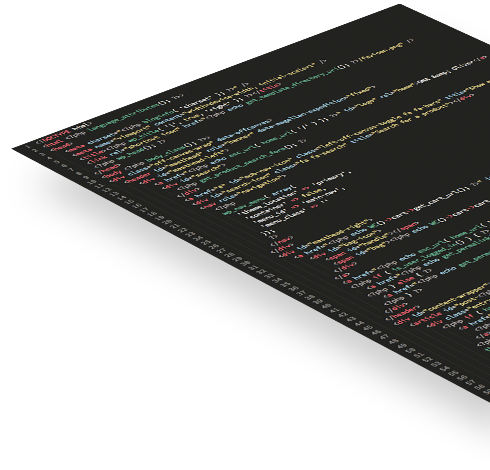
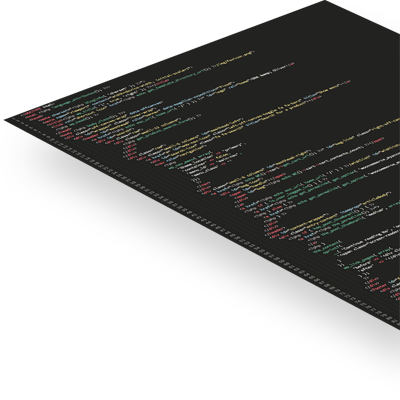
Reduce size of website layers and switch to background images

diff --git a/assets/style.css b/assets/style.css
@@ -1,1 +1,1 @@
-html{font-family:sans-serif;-ms-text-size-adjust:100%;-webkit-text-size-adjust:100%}body{margin:0}article,aside,details,figcaption,figure,footer,header,hgroup,main,menu,nav,section,summary{display:block}audio,canvas,progress,video{display:inline-block;vertical-align:baseline}audio:not([controls]){display:none;height:0}[hidden],template{display:none}a{background-color:transparent}a:active,a:hover{outline:0}abbr[title]{border-bottom:1px dotted}b,strong{font-weight:bold}dfn{font-style:italic}h1{font-size:2em;margin:0.67em 0}mark{background:#ff0;color:#000}small{font-size:80%}sub,sup{font-size:75%;line-height:0;position:relative;vertical-align:baseline}sup{top:-0.5em}sub{bottom:-0.25em}img{border:0}svg:not(:root){overflow:hidden}figure{margin:1em 40px}hr{box-sizing:content-box;height:0}pre{overflow:auto}code,kbd,pre,samp{font-family:monospace, monospace;font-size:1em}button,input,optgroup,select,textarea{color:inherit;font:inherit;margin:0}button{overflow:visible}button,select{text-transform:none}button,html input[type="button"],input[type="reset"],input[type="submit"]{-webkit-appearance:button;cursor:pointer}button[disabled],html input[disabled]{cursor:default}button::-moz-focus-inner,input::-moz-focus-inner{border:0;padding:0}input{line-height:normal}input[type="checkbox"],input[type="radio"]{box-sizing:border-box;padding:0}input[type="number"]::-webkit-inner-spin-button,input[type="number"]::-webkit-outer-spin-button{height:auto}input[type="search"]{-webkit-appearance:textfield;box-sizing:content-box}input[type="search"]::-webkit-search-cancel-button,input[type="search"]::-webkit-search-decoration{-webkit-appearance:none}fieldset{border:1px solid #c0c0c0;margin:0 2px;padding:0.35em 0.625em 0.75em}legend{border:0;padding:0}textarea{overflow:auto}optgroup{font-weight:bold}table{border-collapse:collapse;border-spacing:0}td,th{padding:0}*,*:before,*:after{box-sizing:border-box}:focus{box-shadow:none;outline:none}::-moz-selection{background-color:#fc3;color:#222}::selection{background-color:#fc3;color:#222}body{background-color:#c9c8c5;font-family:'Open Sans', sans-serif;font-size:0.875rem;line-height:1.642;color:#555}p{padding:0 0 1em;margin:0}a{color:#fc3;text-decoration:none}a:hover{color:#000}ul{list-style:none;margin:0;padding:0}h1,h2,h3,h4,h5,h6{font-family:'Montserrat', sans-serif;color:#222;font-weight:bold;margin:0 0 0.5em}h1{position:relative;font-size:2.25rem;line-height:1.4;letter-spacing:-2px;padding-bottom:0.625em;margin-bottom:0.625em}h1:after{max-width:3em;height:5px}h2{position:relative;font-size:2rem;line-height:1.25;text-transform:capitalize;padding-bottom:0.625em;margin-bottom:0.75em}h1:after,h2:after{content:'';width:100%;max-width:2em;height:3px;position:absolute;left:0;bottom:0;background-color:#fc3}.bubble{display:inline-block;position:relative;background-color:#fc3;font-size:1rem;line-height:1.375;font-weight:bold;text-transform:uppercase;color:#222;padding:0.5em 0.75em;margin-bottom:1rem}.bubble:after{content:'';width:0;height:0;position:absolute;right:0;bottom:-10px;border-top:10px solid #fc3;border-left:10px solid transparent}h3{font-size:1rem}@media (min-width: 22.5rem){h1{font-size:2.5rem}}@media (min-width: 40rem){h1{font-size:2.75rem}h2{font-size:2.125rem}.bubble{font-size:1.125rem;margin-bottom:1.25rem}}@media (min-width: 48rem){body{font-size:0.9375rem;line-height:1.666}h1{font-size:3rem}h2{font-size:2.25rem}}@media (min-width: 64rem){body{font-size:1rem;line-height:1.625}h1{font-size:4rem;padding-bottom:0.5em}h2{font-size:2.5rem}h3{font-size:1.125rem}.bubble{font-size:1.25rem}}@-webkit-keyframes fadeIn{0%{opacity:0}100%{opacity:1}}@keyframes fadeIn{0%{opacity:0}100%{opacity:1}}@-webkit-keyframes fadeInUp{0%{opacity:0;-webkit-transform:translateY(2rem);transform:translateY(2rem)}100%{opacity:1;-webkit-transform:none;transform:none}}@keyframes fadeInUp{0%{opacity:0;-webkit-transform:translateY(2rem);transform:translateY(2rem)}100%{opacity:1;-webkit-transform:none;transform:none}}@-webkit-keyframes fadeInLeft{0%{opacity:0;-webkit-transform:translateX(-3rem);transform:translateX(-3rem)}100%{opacity:1;-webkit-transform:none;transform:none}}@keyframes fadeInLeft{0%{opacity:0;-webkit-transform:translateX(-3rem);transform:translateX(-3rem)}100%{opacity:1;-webkit-transform:none;transform:none}}@-webkit-keyframes fadeInRight{0%{opacity:0;-webkit-transform:translateX(3rem);transform:translateX(3rem)}100%{opacity:1;-webkit-transform:none;transform:none}}@keyframes fadeInRight{0%{opacity:0;-webkit-transform:translateX(3rem);transform:translateX(3rem)}100%{opacity:1;-webkit-transform:none;transform:none}}@-webkit-keyframes zoomIn{0%{opacity:0;-webkit-transform:scale3d(0.5, 0.5, 0.5);transform:scale3d(0.5, 0.5, 0.5)}50%{opacity:1}}@keyframes zoomIn{0%{opacity:0;-webkit-transform:scale3d(0.5, 0.5, 0.5);transform:scale3d(0.5, 0.5, 0.5)}50%{opacity:1}}.js .animated,.js section header{visibility:hidden}.js .animated.revealed,.js section header.revealed{visibility:visible}.animated.revealed,section header.revealed{-webkit-animation:fadeIn 0.8s;animation:fadeIn 0.8s}#page-header{position:fixed;top:0;left:0;right:0;z-index:2}#page-header .inner-container{border-bottom:1px solid #f2f2f2;background-color:#fff}#page-header .inner-container:before,#page-header .inner-container:after{content:'';display:table}#page-header .inner-container:after{clear:both}#page-header #logo{width:75%;float:left;font-family:'Montserrat', sans-serif;color:#222;font-size:1.25rem;line-height:1;padding:0}#page-header #logo a{display:inline-block;color:#000;padding:1rem 1rem}#page-header #logo a:hover{color:#fc3}main{overflow:hidden;z-index:1}section{background-color:#fff;padding:2rem 1rem}section:before,section:after{content:'';display:table}section:after{clear:both}section#home{padding:0}section p:last-child{padding-bottom:0}#page-footer{background-color:#333;font-size:0.875rem;padding:1rem 1rem;overflow:hidden}#page-footer p{line-height:1.5rem;color:#cfcecb;padding:0.5rem 0}#page-footer p.copyright{width:80%;float:left}#page-footer p.github{width:20%;float:right;text-align:right}#page-footer p.github span{display:none;vertical-align:top}#page-footer a{display:inline-block;line-height:1.5rem;color:#cfcecb}#page-footer a svg{width:1.5rem;height:1.5rem;fill:currentColor;vertical-align:top;margin-right:0.5rem}#page-footer a:hover{color:#fc3}#page-footer a:hover svg{fill:#fc3}@media (min-width: 22.5rem){#page-header #logo a,#page-footer{padding:1rem 1.25rem}section{padding:2rem 1.25rem}}@media (min-width: 40rem){#page-header #logo a,#page-footer{padding:1.25rem 1.5rem}#page-footer p.copyright{width:50%}#page-footer p.github{width:50%}#page-footer p.github span{display:inline-block}section{padding:2rem 1.5rem}}@media (min-width: 48rem){#page-header .inner-container,#page-footer{padding:1.5rem 1.75rem}#page-header #logo a{padding:0}#page-header #logo{width:25%;line-height:2.5rem}section{padding:2rem 1.75rem}}@media (min-width: 64rem){main,#page-footer,.inner-container{width:100%;max-width:64rem;margin:0 auto}#page-header .inner-container,#page-footer{padding:1.5rem 3rem}section{padding:3rem}}#menu-icon{box-sizing:content-box;width:24px;height:20px;float:right;position:relative;border:solid #fff;border-width:1rem 1rem;-webkit-transform:rotate(0deg);transform:rotate(0deg);transition:all 0.3s ease-in-out;cursor:pointer}#menu-icon:before,#menu-icon:after,#menu-icon span:before,#menu-icon span:after{content:'';display:block;width:100%;height:4px;position:absolute;left:0;background:#000;-webkit-transform:rotate(0deg);transform:rotate(0deg);transition:all 0.3s ease-in-out}#menu-icon:before{top:0}#menu-icon:after{top:16px}#menu-icon span:before,#menu-icon span:after{top:8px}#menu-icon.open:before,#menu-icon.open:after{width:0%;top:8px;left:50%}#menu-icon.open span:before{-webkit-transform:rotate(45deg);transform:rotate(45deg)}#menu-icon.open span:after{-webkit-transform:rotate(-45deg);transform:rotate(-45deg)}#main-menu{display:none;clear:both;font-family:'Montserrat', sans-serif;color:#222}#main-menu ul{padding:1rem 0 2rem;visibility:hidden}#main-menu a{display:block;font-size:1.25rem;letter-spacing:1px;color:#000;line-height:2.2em;text-align:center;text-transform:uppercase}#main-menu a:hover{color:#fc3}#main-menu hr{display:none}#main-menu.open ul{visibility:visible}@media (min-width: 22.5rem){#menu-icon{border-width:1rem 1.25rem}}@media (min-width: 40rem){#menu-icon{border-width:1.25rem 1.5rem}}@media (min-width: 48rem){#menu-icon{display:none}#main-menu{display:block;clear:none;max-width:75%;float:right;position:relative;background:none}#main-menu ul{position:relative;padding:0;visibility:visible}#main-menu li{display:inline-block;margin-left:2em}#main-menu li:first-child{margin-left:0}#main-menu a{font-size:0.875rem;line-height:2.5rem;text-align:left}#main-menu hr{display:block;height:3px;position:absolute;left:0;bottom:0;border:none;background-color:#fc3;padding:0;margin:0;transition:left 0.5s, width 0.5s}}#home{background-color:#f2f2f2;margin-top:3.25rem;overflow:hidden}.intro{width:100%;padding:1.75rem 1rem 2rem}.intro p{padding:0}.layers{display:none}#about .photo{display:block;width:100%;max-width:335px;height:auto;margin:0 auto 1rem}#about .photo.revealed,#about .text.revealed{-webkit-animation:fadeInUp 0.5s;animation:fadeInUp 0.5s}#skills{background-color:#f2f2f2}.skill{text-align:center;padding-top:0.75rem}.skill:nth-of-type(1n+2){margin-top:1.25rem}.skill.revealed{-webkit-animation:fadeInUp 0.5s;animation:fadeInUp 0.5s}.skill span{display:inline-block;border-radius:50%;background-color:#fc3;padding:1rem;margin-bottom:0.5rem}.skill span svg{display:block;width:3rem;height:3rem;fill:#333;overflow:visible}.skill span.responsive svg{margin:0 1px 0 -1px}.skill span.performance svg{margin:-2px 0 2px}.skill p{padding-bottom:0}#work{padding-bottom:0}.project{width:100%;max-width:335px;min-height:200px;position:relative;margin:0 auto}.project.revealed{-webkit-animation:zoomIn 0.5s;animation:zoomIn 0.5s}.project:nth-of-type(1n+2){margin-top:1rem}.project img{display:block;width:100%;height:auto}.project h3{position:relative;background-color:#333;font-weight:normal;line-height:2.875rem;color:#f2f2f2;padding:0 1rem 0.125em;margin:0}.project h3 span{width:3rem;height:3rem;position:absolute;top:0;right:0;padding:0.5rem;cursor:pointer}.project h3 span:hover svg{fill:#fc3}.project h3 svg{width:100%;height:100%;fill:currentColor}.project h3 svg.small{-webkit-transform:scale(0.8, 0.8);transform:scale(0.8, 0.8)}.project .details{display:none;height:calc(100% - 3rem);position:absolute;right:0;bottom:3rem;left:0;background-color:rgba(51,51,51,0.85);color:#fff;fill:currentColor;padding:1rem}.project .details li{margin-top:0.625rem}.project .details li svg{width:1.5rem;height:1.5rem;vertical-align:top;margin-right:0.5rem}.project .details li a{display:inline-block;line-height:1.5rem;color:#fff;vertical-align:top}.project .details li a:hover{color:#fc3}.project .details li a:hover svg{fill:#fc3}.project .details p,.project .details ul{display:none}.project .details.open p,.project .details.open ul{display:block}.project.va{background-color:#d9dadb}.project.oo{background-color:#d1eb83}.project.sd{background-color:#a9ddee}.project.je{background-color:#339c49}@media (min-width: 22.5rem){.intro{padding:1.75rem 1.25rem 2rem}.project:nth-of-type(1n+2){margin-top:1.25rem}}@media (min-width: 40rem){.intro{width:60%;float:left;padding:1.75rem 0 2rem 1.5rem}@-webkit-keyframes layers{0%{right:-100%}100%{right:0}}@keyframes layers{0%{right:-100%}100%{right:0}}.layers{display:block;width:40%;max-width:490px;float:right;position:relative}.layers:before{content:'';display:block;height:0;padding-bottom:110%}.layers img{width:100%;height:auto;position:absolute;right:-100%;-webkit-animation:layers 0.3s ease-out 0s 1 forwards;animation:layers 0.3s ease-out 0s 1 forwards;-webkit-transform:translate3d(0, 0, 0)}.layers .website{top:20px;-webkit-animation-delay:0.6s;animation-delay:0.6s}.layers .code{top:80px;-webkit-animation-delay:0.3s;animation-delay:0.3s}.layers .wireframe{top:140px}.project{width:calc(50% - 0.75rem);float:left}.project:nth-of-type(1n+2){margin-top:0}.project:nth-of-type(1n+3){margin-top:1.5rem}.project:nth-of-type(2n+1){clear:both;margin-right:1.5rem}}@media (min-width: 48rem){.intro{width:60%;float:left;padding:1.75rem 0 2rem 1.75rem}.intro p{padding-right:2rem}#home{margin-top:5.5rem}.layers{width:40%;max-width:490px}.layers:before{padding-bottom:110%}.layers .website{top:20px}.layers .code{top:100px}.layers .wireframe{top:180px}#about .photo{width:calc(50% - 0.875rem);max-width:448px;height:auto;float:left;margin-bottom:0}#about .photo.revealed{-webkit-animation:fadeInLeft 0.5s;animation:fadeInLeft 0.5s}#about .text{width:calc(50% + 0.875rem);float:left;padding-left:1.75rem}#about .text.revealed{-webkit-animation:fadeInRight 0.5s;animation:fadeInRight 0.5s}.skill{float:left;width:calc(50% - 0.875rem);padding-top:1rem}.skill:nth-of-type(1n+2){margin-top:0}.skill:nth-of-type(1n+3){margin-top:1.25rem}.skill:nth-of-type(2n+1){clear:both;margin-right:1.75rem}.project{width:calc(50% - 0.875rem);max-width:448px}.project:nth-of-type(2n+1){margin-right:1.75rem}.project:nth-of-type(1n+3){margin-top:1.75rem}}@media (min-width: 64rem){.intro{padding:2.5rem 0 3rem 3rem}.intro p{max-width:36rem}.layers .code{top:120px}.layers .wireframe{top:220px}#about .photo{max-width:448px}#about .text{width:calc(100% - 448px);padding-left:2rem}.skill{width:calc(50% - 1rem)}.skill:nth-of-type(2n+1){margin-right:2rem}.project{width:calc(50% - 1rem)}.project:nth-of-type(2n+1){margin-right:2rem}.project:nth-of-type(1n+3){margin-top:2rem}.project h3{padding:0 1.5rem 0.125rem}.project .details{padding:1rem 1.5rem}}form input,form textarea{display:block;width:100%;box-shadow:none;border:none;border-radius:0;background-color:#f2f2f2;color:#222;padding:0.75em}form input:focus,form textarea:focus{box-shadow:0 0 0 2px #eee inset;background-color:#fff}form input{max-width:24em}form button{border:none;background-color:#333;font-family:'Montserrat', sans-serif;color:#222;color:#fff;font-size:0.875rem;font-weight:bold;line-height:1.5;letter-spacing:1px;text-transform:uppercase;padding:0.714em 1em;transition:all 0.3s}form button:hover{background-color:#fc3;color:#222}@media (min-width: 40rem){form p{padding-bottom:1.5rem}form input{max-width:22em}form textarea{max-width:44em}form button{padding:0.785em 1em}}
+html{font-family:sans-serif;-ms-text-size-adjust:100%;-webkit-text-size-adjust:100%}body{margin:0}article,aside,details,figcaption,figure,footer,header,hgroup,main,menu,nav,section,summary{display:block}audio,canvas,progress,video{display:inline-block;vertical-align:baseline}audio:not([controls]){display:none;height:0}[hidden],template{display:none}a{background-color:transparent}a:active,a:hover{outline:0}abbr[title]{border-bottom:1px dotted}b,strong{font-weight:bold}dfn{font-style:italic}h1{font-size:2em;margin:0.67em 0}mark{background:#ff0;color:#000}small{font-size:80%}sub,sup{font-size:75%;line-height:0;position:relative;vertical-align:baseline}sup{top:-0.5em}sub{bottom:-0.25em}img{border:0}svg:not(:root){overflow:hidden}figure{margin:1em 40px}hr{box-sizing:content-box;height:0}pre{overflow:auto}code,kbd,pre,samp{font-family:monospace, monospace;font-size:1em}button,input,optgroup,select,textarea{color:inherit;font:inherit;margin:0}button{overflow:visible}button,select{text-transform:none}button,html input[type="button"],input[type="reset"],input[type="submit"]{-webkit-appearance:button;cursor:pointer}button[disabled],html input[disabled]{cursor:default}button::-moz-focus-inner,input::-moz-focus-inner{border:0;padding:0}input{line-height:normal}input[type="checkbox"],input[type="radio"]{box-sizing:border-box;padding:0}input[type="number"]::-webkit-inner-spin-button,input[type="number"]::-webkit-outer-spin-button{height:auto}input[type="search"]{-webkit-appearance:textfield;box-sizing:content-box}input[type="search"]::-webkit-search-cancel-button,input[type="search"]::-webkit-search-decoration{-webkit-appearance:none}fieldset{border:1px solid #c0c0c0;margin:0 2px;padding:0.35em 0.625em 0.75em}legend{border:0;padding:0}textarea{overflow:auto}optgroup{font-weight:bold}table{border-collapse:collapse;border-spacing:0}td,th{padding:0}*,*:before,*:after{box-sizing:border-box}:focus{box-shadow:none;outline:none}::-moz-selection{background-color:#fc3;color:#222}::selection{background-color:#fc3;color:#222}body{background-color:#c9c8c5;font-family:'Open Sans', sans-serif;font-size:0.875rem;line-height:1.642;color:#555}p{padding:0 0 1em;margin:0}a{color:#fc3;text-decoration:none}a:hover{color:#000}ul{list-style:none;margin:0;padding:0}h1,h2,h3,h4,h5,h6{font-family:'Montserrat', sans-serif;color:#222;font-weight:bold;margin:0 0 0.5em}h1{position:relative;font-size:2.25rem;line-height:1.4;letter-spacing:-2px;padding-bottom:0.625em;margin-bottom:0.625em}h1:after{max-width:3em;height:5px}h2{position:relative;font-size:2rem;line-height:1.25;text-transform:capitalize;padding-bottom:0.625em;margin-bottom:0.75em}h1:after,h2:after{content:'';width:100%;max-width:2em;height:3px;position:absolute;left:0;bottom:0;background-color:#fc3}.bubble{display:inline-block;position:relative;background-color:#fc3;font-size:1rem;line-height:1.375;font-weight:bold;text-transform:uppercase;color:#222;padding:0.5em 0.75em;margin-bottom:1rem}.bubble:after{content:'';width:0;height:0;position:absolute;right:0;bottom:-10px;border-top:10px solid #fc3;border-left:10px solid transparent}h3{font-size:1rem}@media (min-width: 22.5rem){h1{font-size:2.5rem}}@media (min-width: 40rem){h1{font-size:2.75rem}h2{font-size:2.125rem}.bubble{font-size:1.125rem;margin-bottom:1.25rem}}@media (min-width: 48rem){body{font-size:0.9375rem;line-height:1.666}h1{font-size:3rem}h2{font-size:2.25rem}}@media (min-width: 64rem){body{font-size:1rem;line-height:1.625}h1{font-size:4rem;padding-bottom:0.5em}h2{font-size:2.5rem}h3{font-size:1.125rem}.bubble{font-size:1.25rem}}@-webkit-keyframes fadeIn{0%{opacity:0}100%{opacity:1}}@keyframes fadeIn{0%{opacity:0}100%{opacity:1}}@-webkit-keyframes fadeInUp{0%{opacity:0;-webkit-transform:translateY(2rem);transform:translateY(2rem)}100%{opacity:1;-webkit-transform:none;transform:none}}@keyframes fadeInUp{0%{opacity:0;-webkit-transform:translateY(2rem);transform:translateY(2rem)}100%{opacity:1;-webkit-transform:none;transform:none}}@-webkit-keyframes fadeInLeft{0%{opacity:0;-webkit-transform:translateX(-3rem);transform:translateX(-3rem)}100%{opacity:1;-webkit-transform:none;transform:none}}@keyframes fadeInLeft{0%{opacity:0;-webkit-transform:translateX(-3rem);transform:translateX(-3rem)}100%{opacity:1;-webkit-transform:none;transform:none}}@-webkit-keyframes fadeInRight{0%{opacity:0;-webkit-transform:translateX(3rem);transform:translateX(3rem)}100%{opacity:1;-webkit-transform:none;transform:none}}@keyframes fadeInRight{0%{opacity:0;-webkit-transform:translateX(3rem);transform:translateX(3rem)}100%{opacity:1;-webkit-transform:none;transform:none}}@-webkit-keyframes zoomIn{0%{opacity:0;-webkit-transform:scale3d(0.5, 0.5, 0.5);transform:scale3d(0.5, 0.5, 0.5)}50%{opacity:1}}@keyframes zoomIn{0%{opacity:0;-webkit-transform:scale3d(0.5, 0.5, 0.5);transform:scale3d(0.5, 0.5, 0.5)}50%{opacity:1}}.js .animated,.js section header{visibility:hidden}.js .animated.revealed,.js section header.revealed{visibility:visible}.animated.revealed,section header.revealed{-webkit-animation:fadeIn 0.8s;animation:fadeIn 0.8s}#page-header{position:fixed;top:0;left:0;right:0;z-index:2}#page-header .inner-container{border-bottom:1px solid #f2f2f2;background-color:#fff}#page-header .inner-container:before,#page-header .inner-container:after{content:'';display:table}#page-header .inner-container:after{clear:both}#page-header #logo{width:75%;float:left;font-family:'Montserrat', sans-serif;color:#222;font-size:1.25rem;line-height:1;padding:0}#page-header #logo a{display:inline-block;color:#000;padding:1rem 1rem}#page-header #logo a:hover{color:#fc3}main{overflow:hidden;z-index:1}section{background-color:#fff;padding:2rem 1rem}section:before,section:after{content:'';display:table}section:after{clear:both}section#home{padding:0}section p:last-child{padding-bottom:0}#page-footer{background-color:#333;font-size:0.875rem;padding:1rem 1rem;overflow:hidden}#page-footer p{line-height:1.5rem;color:#cfcecb;padding:0.5rem 0}#page-footer p.copyright{width:80%;float:left}#page-footer p.github{width:20%;float:right;text-align:right}#page-footer p.github span{display:none;vertical-align:top}#page-footer a{display:inline-block;line-height:1.5rem;color:#cfcecb}#page-footer a svg{width:1.5rem;height:1.5rem;fill:currentColor;vertical-align:top;margin-right:0.5rem}#page-footer a:hover{color:#fc3}#page-footer a:hover svg{fill:#fc3}@media (min-width: 22.5rem){#page-header #logo a,#page-footer{padding:1rem 1.25rem}section{padding:2rem 1.25rem}}@media (min-width: 40rem){#page-header #logo a,#page-footer{padding:1.25rem 1.5rem}#page-footer p.copyright{width:50%}#page-footer p.github{width:50%}#page-footer p.github span{display:inline-block}section{padding:2rem 1.5rem}}@media (min-width: 48rem){#page-header .inner-container,#page-footer{padding:1.5rem 1.75rem}#page-header #logo a{padding:0}#page-header #logo{width:25%;line-height:2.5rem}section{padding:2rem 1.75rem}}@media (min-width: 64rem){main,#page-footer,.inner-container{width:100%;max-width:64rem;margin:0 auto}#page-header .inner-container,#page-footer{padding:1.5rem 3rem}section{padding:3rem}}#menu-icon{box-sizing:content-box;width:24px;height:20px;float:right;position:relative;border:solid #fff;border-width:1rem 1rem;-webkit-transform:rotate(0deg);transform:rotate(0deg);transition:all 0.3s ease-in-out;cursor:pointer}#menu-icon:before,#menu-icon:after,#menu-icon span:before,#menu-icon span:after{content:'';display:block;width:100%;height:4px;position:absolute;left:0;background:#000;-webkit-transform:rotate(0deg);transform:rotate(0deg);transition:all 0.3s ease-in-out}#menu-icon:before{top:0}#menu-icon:after{top:16px}#menu-icon span:before,#menu-icon span:after{top:8px}#menu-icon.open:before,#menu-icon.open:after{width:0%;top:8px;left:50%}#menu-icon.open span:before{-webkit-transform:rotate(45deg);transform:rotate(45deg)}#menu-icon.open span:after{-webkit-transform:rotate(-45deg);transform:rotate(-45deg)}#main-menu{display:none;clear:both;font-family:'Montserrat', sans-serif;color:#222}#main-menu ul{padding:1rem 0 2rem;visibility:hidden}#main-menu a{display:block;font-size:1.25rem;letter-spacing:1px;color:#000;line-height:2.2em;text-align:center;text-transform:uppercase}#main-menu a:hover{color:#fc3}#main-menu hr{display:none}#main-menu.open ul{visibility:visible}@media (min-width: 22.5rem){#menu-icon{border-width:1rem 1.25rem}}@media (min-width: 40rem){#menu-icon{border-width:1.25rem 1.5rem}}@media (min-width: 48rem){#menu-icon{display:none}#main-menu{display:block;clear:none;max-width:75%;float:right;position:relative;background:none}#main-menu ul{position:relative;padding:0;visibility:visible}#main-menu li{display:inline-block;margin-left:2em}#main-menu li:first-child{margin-left:0}#main-menu a{font-size:0.875rem;line-height:2.5rem;text-align:left}#main-menu hr{display:block;height:3px;position:absolute;left:0;bottom:0;border:none;background-color:#fc3;padding:0;margin:0;transition:left 0.5s, width 0.5s}}#home{position:relative;background-color:#f2f2f2;margin-top:3.25rem;overflow:hidden}.intro{width:100%;padding:1.75rem 1rem 2rem}.intro p{padding:0}.layers{display:none}#about .photo{display:block;width:100%;max-width:335px;height:auto;margin:0 auto 1rem}#about .photo.revealed,#about .text.revealed{-webkit-animation:fadeInUp 0.5s;animation:fadeInUp 0.5s}#skills{background-color:#f2f2f2}.skill{text-align:center;padding-top:0.75rem}.skill:nth-of-type(1n+2){margin-top:1.25rem}.skill.revealed{-webkit-animation:fadeInUp 0.5s;animation:fadeInUp 0.5s}.skill span{display:inline-block;border-radius:50%;background-color:#fc3;padding:1rem;margin-bottom:0.5rem}.skill span svg{display:block;width:3rem;height:3rem;fill:#333;overflow:visible}.skill span.responsive svg{margin:0 1px 0 -1px}.skill span.performance svg{margin:-2px 0 2px}.skill p{padding-bottom:0}#work{padding-bottom:0}.project{width:100%;max-width:335px;min-height:200px;position:relative;margin:0 auto}.project.revealed{-webkit-animation:zoomIn 0.5s;animation:zoomIn 0.5s}.project:nth-of-type(1n+2){margin-top:1rem}.project img{display:block;width:100%;height:auto}.project h3{position:relative;background-color:#333;font-weight:normal;line-height:2.875rem;color:#f2f2f2;padding:0 1rem 0.125em;margin:0}.project h3 span{width:3rem;height:3rem;position:absolute;top:0;right:0;padding:0.5rem;cursor:pointer}.project h3 span:hover svg{fill:#fc3}.project h3 svg{width:100%;height:100%;fill:currentColor}.project h3 svg.small{-webkit-transform:scale(0.8, 0.8);transform:scale(0.8, 0.8)}.project .details{display:none;height:calc(100% - 3rem);position:absolute;right:0;bottom:3rem;left:0;background-color:rgba(51,51,51,0.85);color:#fff;fill:currentColor;padding:1rem}.project .details li{margin-top:0.625rem}.project .details li svg{width:1.5rem;height:1.5rem;vertical-align:top;margin-right:0.5rem}.project .details li a{display:inline-block;line-height:1.5rem;color:#fff;vertical-align:top}.project .details li a:hover{color:#fc3}.project .details li a:hover svg{fill:#fc3}.project .details p,.project .details ul{display:none}.project .details.open p,.project .details.open ul{display:block}.project.va{background-color:#d9dadb}.project.oo{background-color:#d1eb83}.project.sd{background-color:#a9ddee}.project.je{background-color:#339c49}@media (min-width: 22.5rem){.intro{padding:1.75rem 1.25rem 2rem}.project:nth-of-type(1n+2){margin-top:1.25rem}}@media (min-width: 40rem){.intro{width:60%;padding:1.75rem 1rem 2rem 1.5rem}@-webkit-keyframes layers{0%{right:-100%}100%{right:0}}@keyframes layers{0%{right:-100%}100%{right:0}}.layers{display:block;width:40%;position:absolute;top:0;right:0;bottom:0}.layers div{width:100%;max-width:400px;position:absolute;right:-100%;background:right top no-repeat;background-size:contain;-webkit-animation:layers 0.3s ease-out 0s 1 forwards;animation:layers 0.3s ease-out 0s 1 forwards;-webkit-transform:translate3d(0, 0, 0)}.layers div:before{content:'';display:block;height:0;padding-bottom:100%}.layers .website{background-image:url("img/website.png");top:20px;-webkit-animation-delay:0.6s;animation-delay:0.6s}.layers .code{background-image:url("img/code.png");top:80px;-webkit-animation-delay:0.3s;animation-delay:0.3s}.layers .wireframe{background-image:url("img/wireframe.png");top:140px}.project{width:calc(50% - 0.75rem);float:left}.project:nth-of-type(1n+2){margin-top:0}.project:nth-of-type(1n+3){margin-top:1.5rem}.project:nth-of-type(2n+1){clear:both;margin-right:1.5rem}}@media (min-width: 48rem){.intro{padding:1.75rem 1rem 2rem 1.75rem}.intro p{padding-right:2rem}#home{margin-top:5.5rem}.layers .website{top:20px}.layers .code{top:100px}.layers .wireframe{top:180px}#about .photo{width:calc(50% - 0.875rem);max-width:448px;height:auto;float:left;margin-bottom:0}#about .photo.revealed{-webkit-animation:fadeInLeft 0.5s;animation:fadeInLeft 0.5s}#about .text{width:calc(50% + 0.875rem);float:left;padding-left:1.75rem}#about .text.revealed{-webkit-animation:fadeInRight 0.5s;animation:fadeInRight 0.5s}.skill{float:left;width:calc(50% - 0.875rem);padding-top:1rem}.skill:nth-of-type(1n+2){margin-top:0}.skill:nth-of-type(1n+3){margin-top:1.25rem}.skill:nth-of-type(2n+1){clear:both;margin-right:1.75rem}.project{width:calc(50% - 0.875rem);max-width:448px}.project:nth-of-type(2n+1){margin-right:1.75rem}.project:nth-of-type(1n+3){margin-top:1.75rem}}@media (min-width: 64rem){.intro{padding:2.5rem 1rem 3rem 3rem}.intro p{max-width:36rem}.layers .code{top:120px}.layers .wireframe{top:220px}#about .photo{max-width:448px}#about .text{width:calc(100% - 448px);padding-left:2rem}.skill{width:calc(50% - 1rem)}.skill:nth-of-type(2n+1){margin-right:2rem}.project{width:calc(50% - 1rem)}.project:nth-of-type(2n+1){margin-right:2rem}.project:nth-of-type(1n+3){margin-top:2rem}.project h3{padding:0 1.5rem 0.125rem}.project .details{padding:1rem 1.5rem}}form input,form textarea{display:block;width:100%;box-shadow:none;border:none;border-radius:0;background-color:#f2f2f2;color:#222;padding:0.75em}form input:focus,form textarea:focus{box-shadow:0 0 0 2px #eee inset;background-color:#fff}form input{max-width:24em}form button{border:none;background-color:#333;font-family:'Montserrat', sans-serif;color:#222;color:#fff;font-size:0.875rem;font-weight:bold;line-height:1.5;letter-spacing:1px;text-transform:uppercase;padding:0.714em 1em;transition:all 0.3s}form button:hover{background-color:#fc3;color:#222}@media (min-width: 40rem){form p{padding-bottom:1.5rem}form input{max-width:22em}form textarea{max-width:44em}form button{padding:0.785em 1em}}

diff --git a/src/scss/_content.scss b/src/scss/_content.scss
@@ -3,6 +3,7 @@
 // ==================================================
 
 #home {
+  position: relative;
   background-color: $bg-light;
   margin-top: 3.25rem; // Height of header
   overflow: hidden;
@@ -248,8 +249,7 @@
 @include breakpoint(sm) { // 640px
   .intro {
     width: 60%;
-    float: left;
-    padding: 1.75rem 0 2rem $padding-sm;
+    padding: 1.75rem 1rem 2rem $padding-sm;
   }
 
   @keyframes layers {
@@ -265,38 +265,44 @@
   .layers {
     display: block;
     width: 40%;
-    max-width: 490px;
-    float: right;
-    position: relative;
-    
-    // Force 'layers' div height to be 110% of width
-    &:before {
-      content: '';
-      display: block;
-      height: 0;
-      padding-bottom: 110%;
-    }
+    position: absolute;
+    top: 0;
+    right: 0;
+    bottom: 0;
 
-    img {
+    div {
       width: 100%;
-      height: auto;
+      max-width: 400px;
       position: absolute;
       right: -100%;
+      background: right top no-repeat;
+      background-size: contain;
       animation: layers 0.3s ease-out 0s 1 forwards;
       -webkit-transform: translate3d(0, 0, 0); // Fix Safari rendeing issue during animation
+
+      // Force div height to be 100% of width
+      &:before {
+        content: '';
+        display: block;
+        height: 0;
+        padding-bottom: 100%;
+      }
     }
 
     .website {
+      background-image: url('img/website.png');
       top: 20px;
       animation-delay: 0.6s;
     }
 
     .code {
+      background-image: url('img/code.png');
       top: 80px;
       animation-delay: 0.3s;
     }
 
     .wireframe {
+      background-image: url('img/wireframe.png');
       top: 140px;
     }
   }
@@ -325,9 +331,7 @@
 
 @include breakpoint(md) { // 768px
   .intro {
-    width: 60%;
-    float: left;
-    padding: 1.75rem 0 2rem $padding-md;
+    padding: 1.75rem 1rem 2rem $padding-md;
 
     p {
       padding-right: 2rem;
@@ -339,13 +343,6 @@
   }
 
   .layers {
-    width: 40%;
-    max-width: 490px;
-
-    &:before {
-      padding-bottom: 110%;
-    }
-
     .website {
       top: 20px;
     }
@@ -421,7 +418,7 @@
 
 @include breakpoint(lg) { // 1024px
   .intro {
-    padding: 2.5rem 0 3rem $padding-lg;
+    padding: 2.5rem 1rem 3rem $padding-lg;
 
     p {
       max-width: 36rem;

diff --git a/index.html b/index.html
@@ -48,9 +48,9 @@
         <p>I'm a front-end web developer from Oxfordshire. I create high performance, responsive websites that look and perform beautifully across multiple devices. I develop bespoke WordPress and Magento themes and write semantic code to W3C standards. I help old ladies cross the road and don't jump the queue at the post office!</p>
       </div>
       <div class="layers">
-        <img src="assets/img/wireframe.png" class="wireframe" alt="Website wireframe">
-        <img src="assets/img/code.png" class="code" alt="Website markup">
-        <img src="assets/img/website.png" class="website" alt="Website preview">
+        <div class="wireframe"></div>
+        <div class="code"></div>
+        <div class="website"></div>
       </div>
     </section>
     
